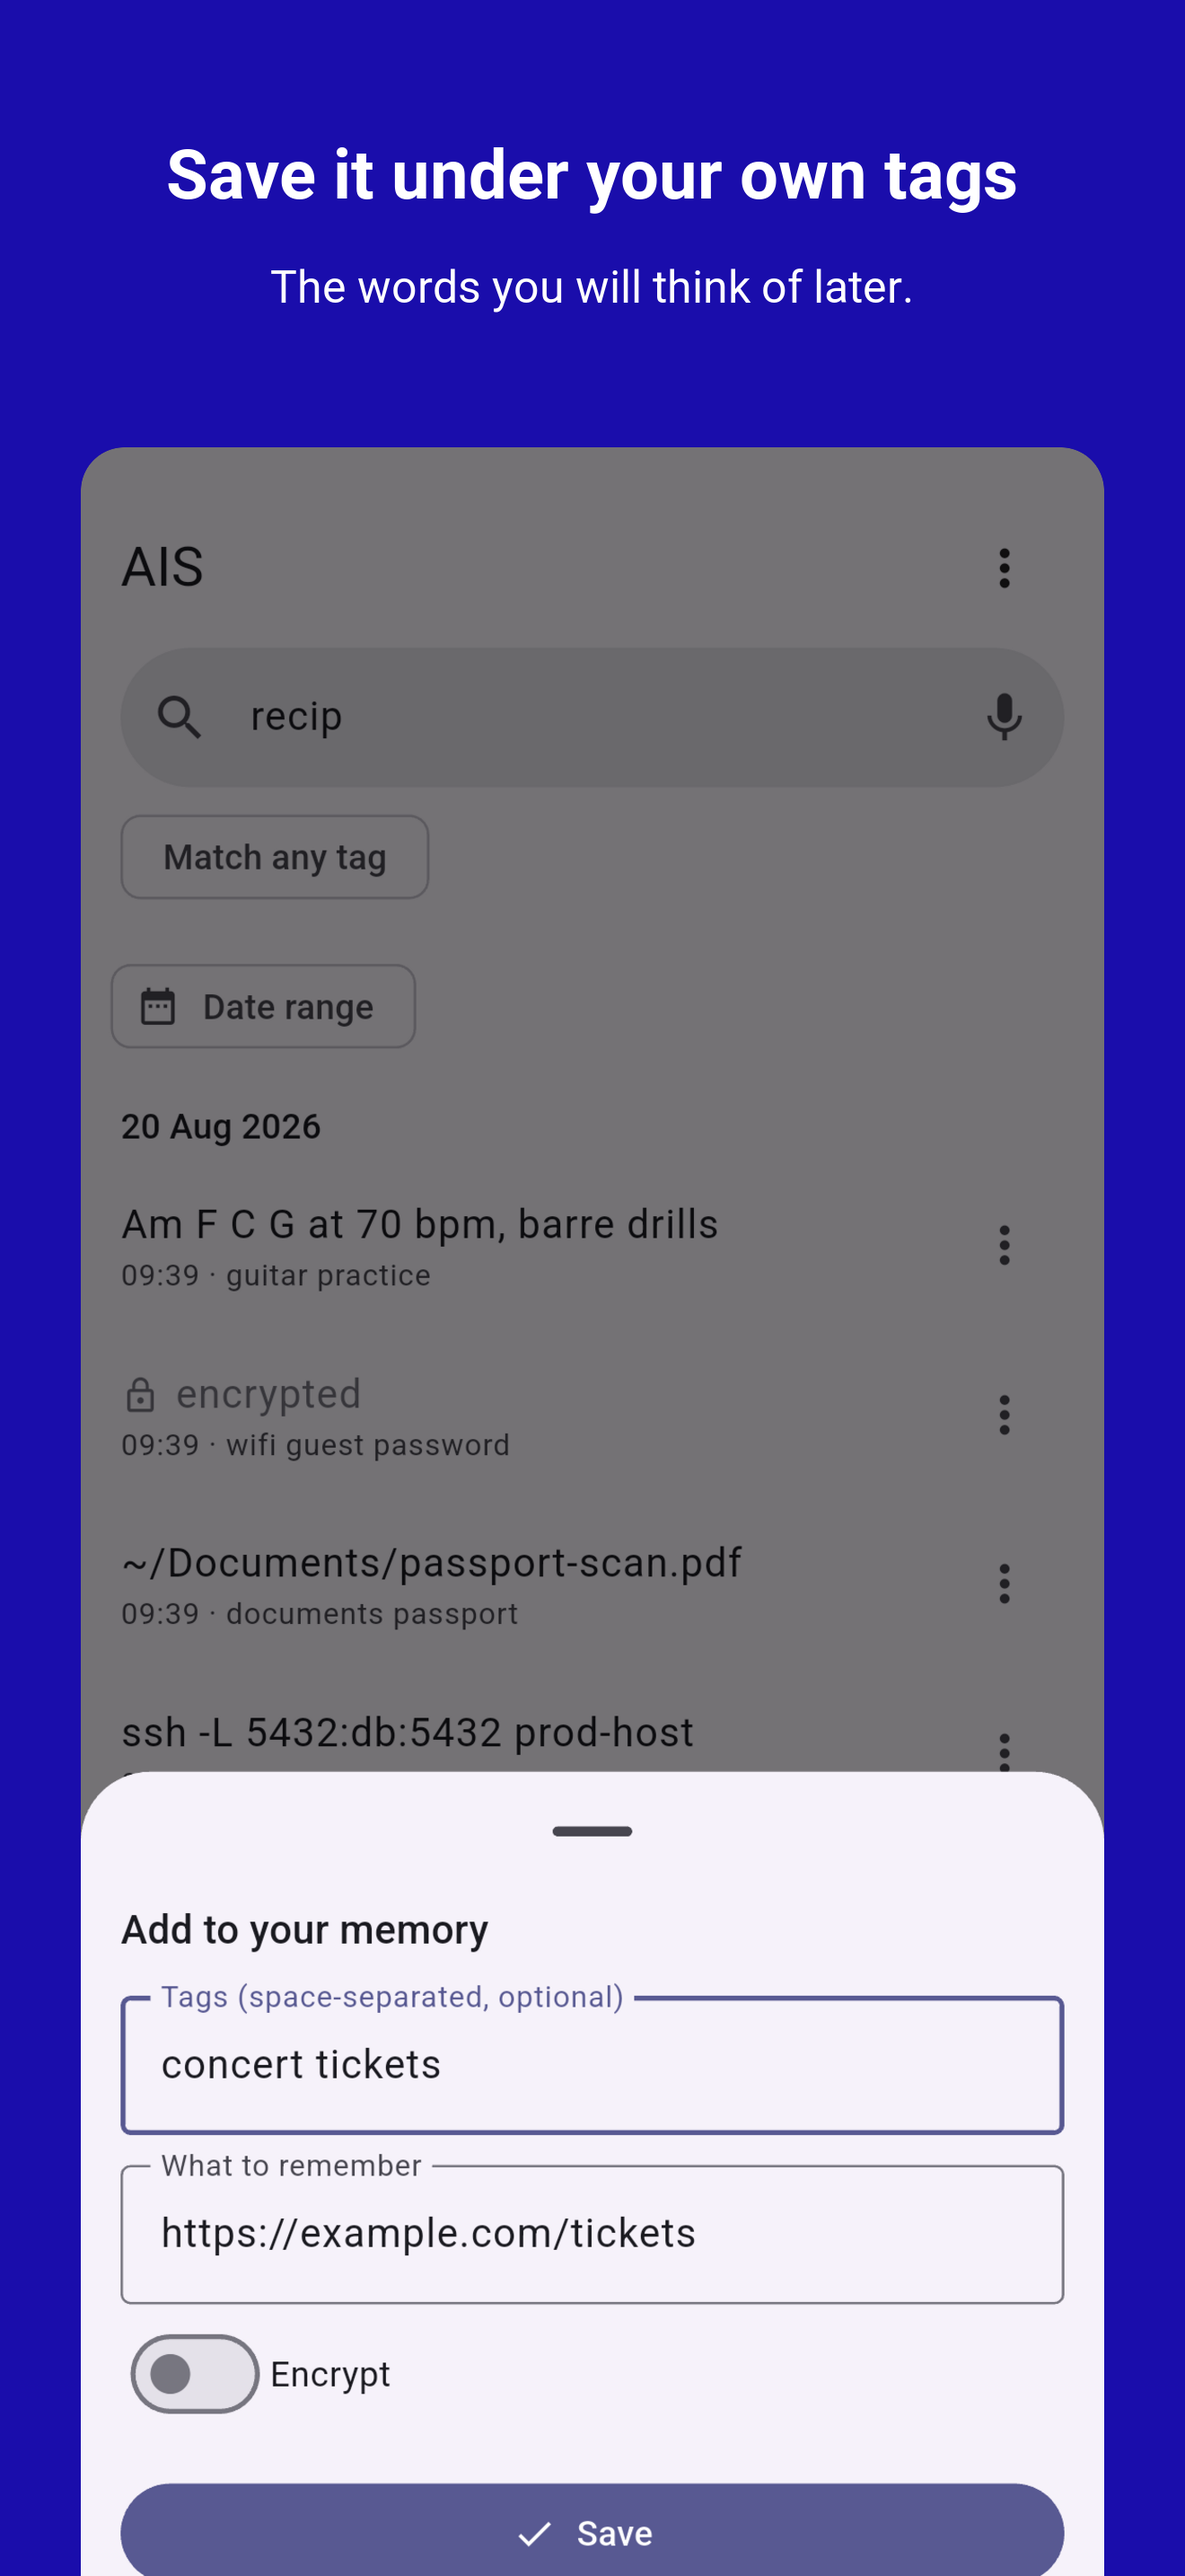
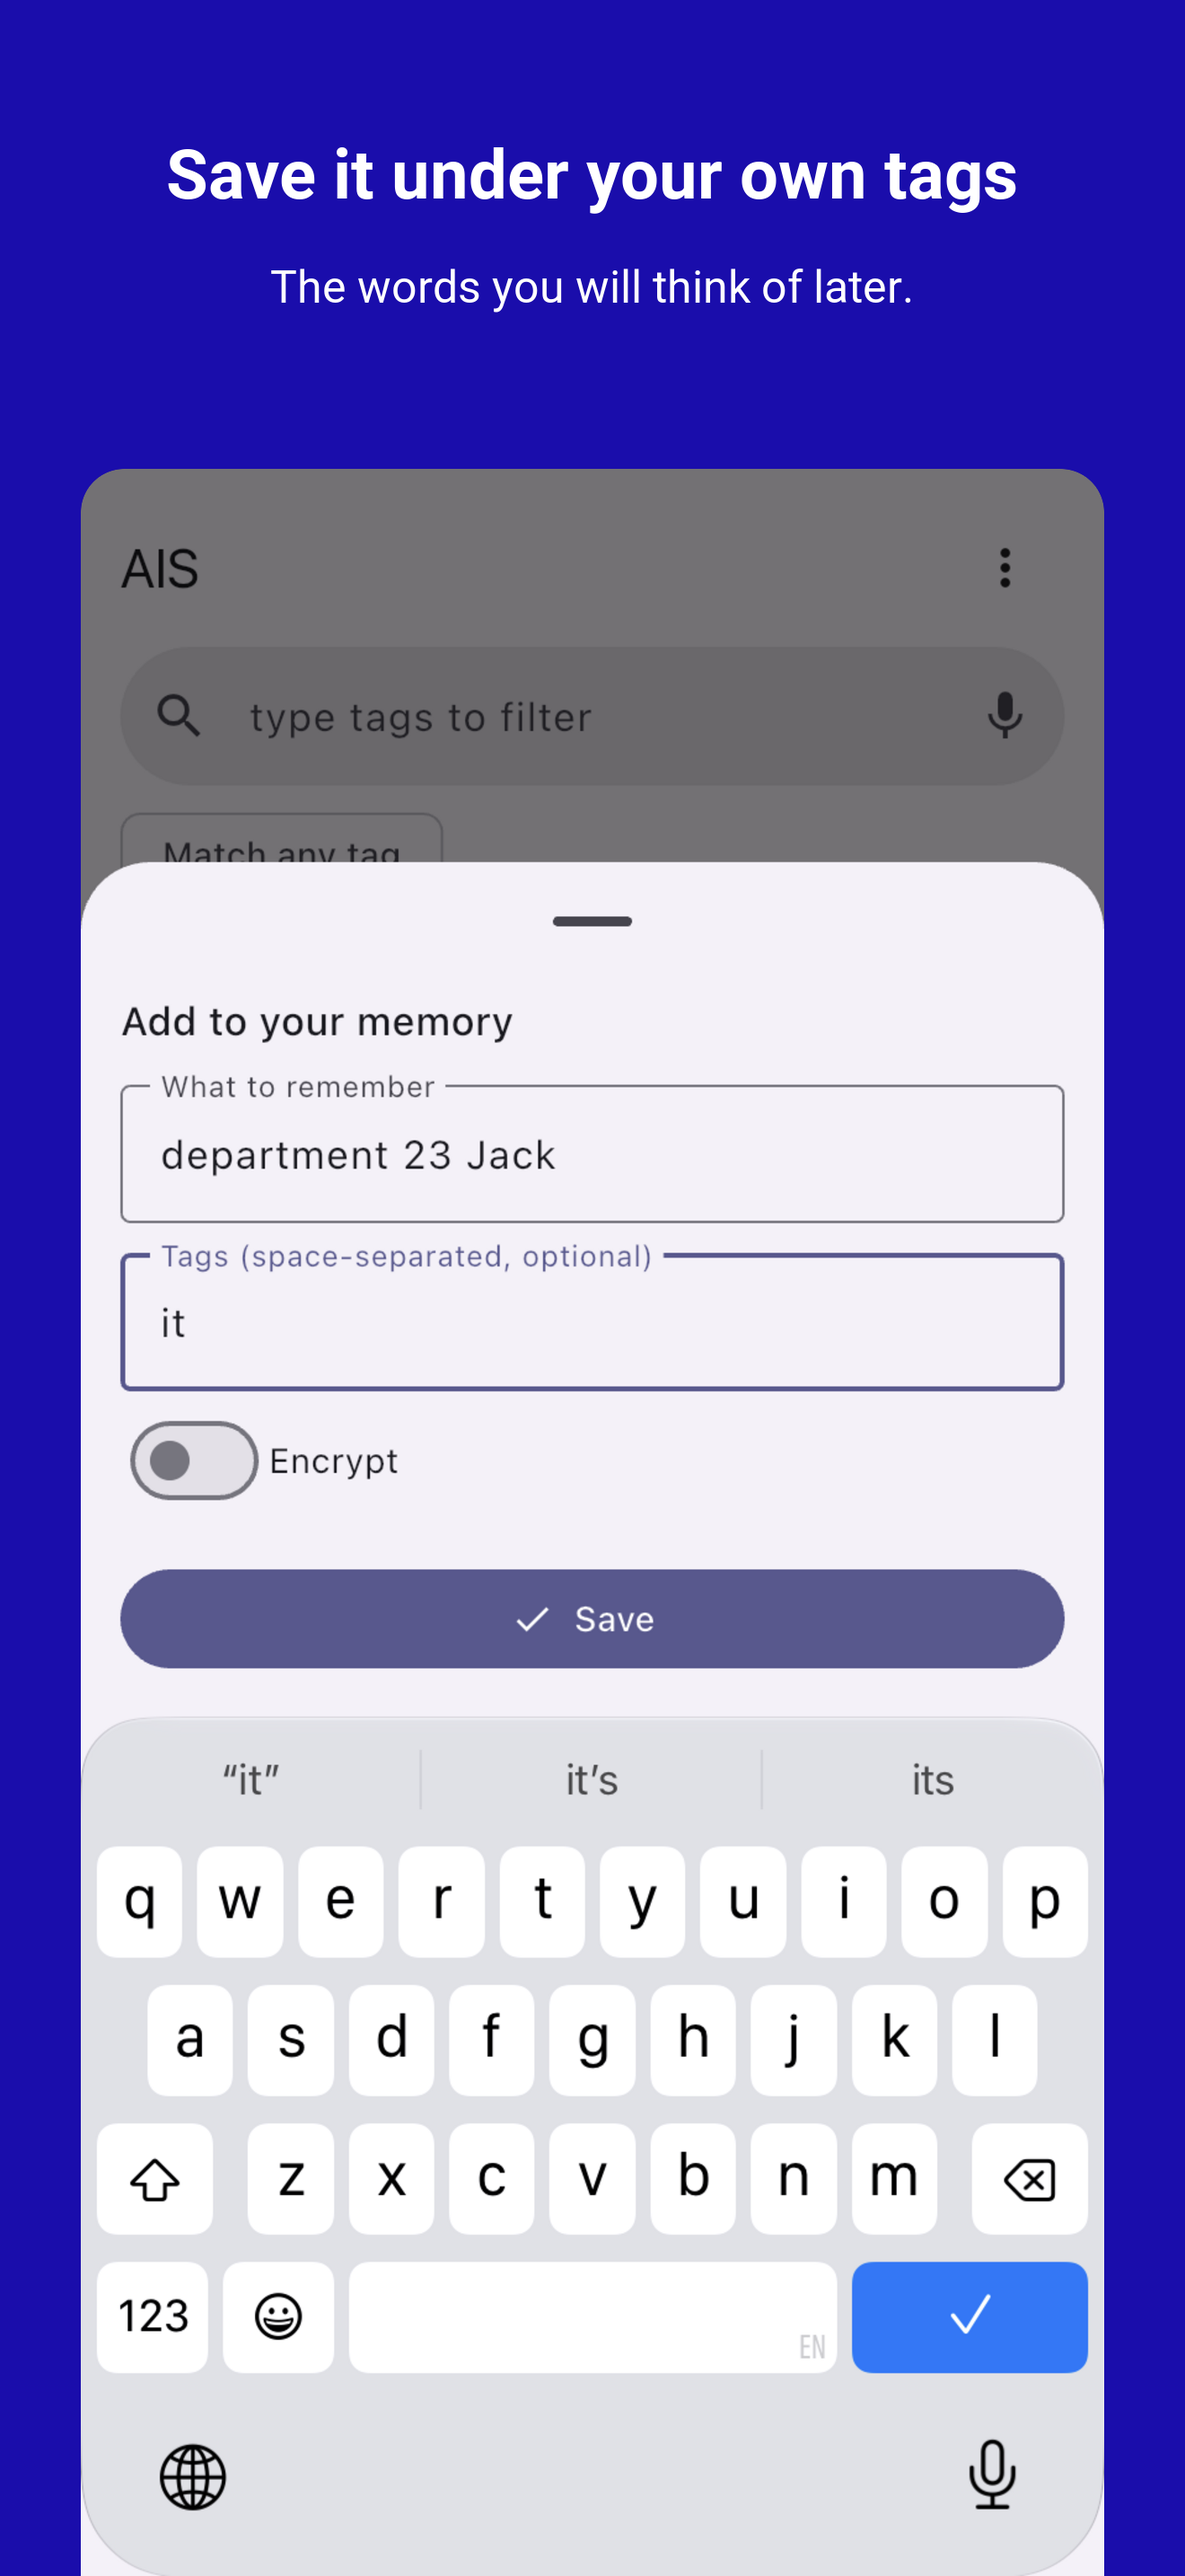
app: Save pinned above the keyboard; an eye on both passphrase fields; App Store frames from the iPhone captures

diff --git a/app/flutter/lib/main.dart b/app/flutter/lib/main.dart
@@ -3443,7 +3443,7 @@ class _AddSheetState extends State<AddSheet> {
   final _keysFocus = FocusNode();
   bool _encrypt = false; // off by default
   bool _saving = false;  // true while the off-isolate encrypt runs
-  bool _ppShow = false;  // reveal toggle for the sealing passphrase (both fields)
+  bool _ppShow = false;  // the sealing passphrase revealed, both fields at once
   String? _error;        // in-sheet feedback so a save never fails silently
 
   @override
@@ -3477,88 +3477,111 @@ class _AddSheetState extends State<AddSheet> {
     Navigator.of(context).pop();
   }
 
+  // One toggle on each passphrase field, sharing one state: tapping either eye
+  // reveals both, and a field with no eye reads as a field that cannot be shown.
+  Widget _eye() => IconButton(
+        icon: Icon(_ppShow ? Icons.visibility_off : Icons.visibility),
+        tooltip: _ppShow ? 'Hide' : 'Show',
+        onPressed: () => setState(() => _ppShow = !_ppShow),
+      );
+
   @override
   Widget build(BuildContext context) => Padding(
         padding: EdgeInsets.only(
             bottom: MediaQuery.of(context).viewInsets.bottom + 16,
             left: 16, right: 16, top: 4),
-        // Scrolls: with the keyboard up and Encrypt on, the fixed Column
-        // overflowed the sheet.
-        child: SingleChildScrollView(
-          child: Column(
+        child: Column(
           mainAxisSize: MainAxisSize.min,
           crossAxisAlignment: CrossAxisAlignment.stretch,
           children: [
             Text('Add to your memory',
                 style: Theme.of(context).textTheme.titleMedium),
             const SizedBox(height: 14),
-            // The thing being saved comes first, then how to find it again. The
-            // other order asked for the label before the thing it labels, which
-            // is not how anyone describes what they are doing.
-            TextField(
-              controller: _valCtrl,
-              autofocus: true,
-              minLines: 1,
-              maxLines: 3,
-              decoration: const InputDecoration(
-                labelText: 'What to remember',
-                hintText: 'a link, a note, a phone number…',
-                border: OutlineInputBorder(),
-              ),
-            ),
-            const SizedBox(height: 12),
-            TextField(
-              controller: _keysCtrl,
-              focusNode: _keysFocus,
-              decoration: const InputDecoration(
-                labelText: 'Tags (space-separated, optional)',
-                hintText: 'e.g. venice italy hotel',
-                border: OutlineInputBorder(),
-              ),
-            ),
-            TagSuggestRow(
-              controller: _keysCtrl,
-              focusNode: _keysFocus,
-              lookup: widget.suggest,
-            ),
-            const SizedBox(height: 4),
-            Row(children: [
-              Switch(
-                value: _encrypt,
-                onChanged: (b) => setState(() => _encrypt = b),
-              ),
-              const Text('Encrypt'),
-            ]),
-            if (_encrypt) ...[
-              TextField(
-                controller: _ppCtrl,
-                obscureText: !_ppShow,
-                decoration: InputDecoration(
-                  labelText: 'Passphrase',
-                  border: const OutlineInputBorder(),
-                  suffixIcon: IconButton(
-                    icon: Icon(_ppShow ? Icons.visibility_off : Icons.visibility),
-                    tooltip: _ppShow ? 'Hide' : 'Show',
-                    onPressed: () => setState(() => _ppShow = !_ppShow),
-                  ),
+            // The fields scroll; Save below them does not, so it stays above
+            // the keyboard however tall the note and the Encrypt fields get.
+            // With Save inside the scroll view a three-line note on a phone
+            // pushed it under the keyboard, out of sight until the user
+            // guessed to scroll.
+            Flexible(
+              child: SingleChildScrollView(
+                child: Column(
+                  mainAxisSize: MainAxisSize.min,
+                  crossAxisAlignment: CrossAxisAlignment.stretch,
+                  children: [
+                    // The thing being saved comes first, then how to find it
+                    // again. The other order asked for the label before the
+                    // thing it labels, which is not how anyone describes what
+                    // they are doing.
+                    TextField(
+                      controller: _valCtrl,
+                      autofocus: true,
+                      minLines: 1,
+                      maxLines: 3,
+                      decoration: const InputDecoration(
+                        labelText: 'What to remember',
+                        hintText: 'a link, a note, a phone number…',
+                        border: OutlineInputBorder(),
+                      ),
+                    ),
+                    const SizedBox(height: 12),
+                    TextField(
+                      controller: _keysCtrl,
+                      focusNode: _keysFocus,
+                      decoration: const InputDecoration(
+                        labelText: 'Tags (space-separated, optional)',
+                        hintText: 'e.g. venice italy hotel',
+                        border: OutlineInputBorder(),
+                      ),
+                    ),
+                    TagSuggestRow(
+                      controller: _keysCtrl,
+                      focusNode: _keysFocus,
+                      lookup: widget.suggest,
+                    ),
+                    const SizedBox(height: 4),
+                    Row(children: [
+                      Switch(
+                        value: _encrypt,
+                        onChanged: (b) => setState(() => _encrypt = b),
+                      ),
+                      const Text('Encrypt'),
+                    ]),
+                    if (_encrypt) ...[
+                      TextField(
+                        controller: _ppCtrl,
+                        obscureText: !_ppShow,
+                        decoration: InputDecoration(
+                          labelText: 'Passphrase',
+                          border: const OutlineInputBorder(),
+                          suffixIcon: _eye(),
+                        ),
+                      ),
+                      const SizedBox(height: 8),
+                      TextField(
+                        controller: _pp2Ctrl,
+                        obscureText: !_ppShow,
+                        decoration: InputDecoration(
+                          labelText: 'Repeat passphrase',
+                          border: const OutlineInputBorder(),
+                          suffixIcon: _eye(),
+                        ),
+                      ),
+                      Padding(
+                        padding: const EdgeInsets.only(top: 6, bottom: 4),
+                        child: Text('A lost passphrase cannot be recovered.',
+                            style: Theme.of(context)
+                                .textTheme
+                                .bodySmall
+                                ?.copyWith(
+                                    color: Theme.of(context)
+                                        .colorScheme
+                                        .onSurfaceVariant)),
+                      ),
+                    ],
+                  ],
                 ),
               ),
-              const SizedBox(height: 8),
-              TextField(
-                controller: _pp2Ctrl,
-                obscureText: !_ppShow,
-                decoration: const InputDecoration(
-                  labelText: 'Repeat passphrase',
-                  border: OutlineInputBorder(),
-                ),
-              ),
-              Padding(
-                padding: const EdgeInsets.only(top: 6, bottom: 4),
-                child: Text('A lost passphrase cannot be recovered.',
-                    style: Theme.of(context).textTheme.bodySmall?.copyWith(
-                        color: Theme.of(context).colorScheme.onSurfaceVariant)),
-              ),
-            ],
+            ),
             if (_error != null)
               Padding(
                 padding: const EdgeInsets.only(top: 2, bottom: 6),
@@ -3576,7 +3599,6 @@ class _AddSheetState extends State<AddSheet> {
               onPressed: _saving ? null : _save,
             ),
           ],
-        ),
         ),
       );
 }

diff --git a/app/flutter/test/add_sheet_test.dart b/app/flutter/test/add_sheet_test.dart
@@ -123,4 +123,49 @@ void main() {
     expect(saved.length, 1);
     expect(find.text('Add to your memory'), findsNothing);
   });
+
+  testWidgets('both passphrase fields carry the reveal toggle; either reveals both',
+      (tester) async {
+    await openSheet(tester);
+    await tester.tap(find.byType(Switch));
+    await tester.pump();
+    final first = find.widgetWithText(TextField, 'Passphrase');
+    final repeat = find.widgetWithText(TextField, 'Repeat passphrase');
+    final eyes = find.descendant(
+        of: find.byType(TextField), matching: find.byIcon(Icons.visibility));
+    expect(eyes, findsNWidgets(2));
+    expect(find.descendant(of: repeat, matching: eyes), findsOneWidget);
+    await tester.tap(find.descendant(of: repeat, matching: eyes));
+    await tester.pump();
+    expect(tester.widget<TextField>(first).obscureText, isFalse);
+    expect(tester.widget<TextField>(repeat).obscureText, isFalse);
+    expect(find.byIcon(Icons.visibility_off), findsNWidgets(2));
+  });
+
+  // A phone-sized view with the keyboard taking most of it: the fields no
+  // longer fit, so they scroll, and Save must still sit above the keyboard
+  // without scrolling. Before the pinned footer it was the last thing inside
+  // the scroll view, hidden until the user guessed to scroll.
+  testWidgets('Save stays above the keyboard however tall the fields grow',
+      (tester) async {
+    tester.view.physicalSize = const Size(800, 1000);
+    tester.view.devicePixelRatio = 1;
+    tester.view.viewInsets = const FakeViewPadding(bottom: 620);
+    addTearDown(tester.view.reset);
+    await openSheet(tester);
+    await tester.tap(find.byType(Switch));
+    await tester.pumpAndSettle();
+    final save = find.widgetWithText(FilledButton, 'Save');
+    expect(save, findsOneWidget);
+    expect(tester.getRect(save).bottom, lessThanOrEqualTo(1000 - 620));
+    // the fields above it are what scroll
+    final scroll = tester.state<ScrollableState>(find.byType(Scrollable).first);
+    expect(scroll.position.maxScrollExtent, greaterThan(0));
+    await fill(tester, 'What to remember', 'x');
+    await fill(tester, 'Passphrase', 'pw');
+    await fill(tester, 'Repeat passphrase', 'pw');
+    await tester.tap(save);
+    await tester.pumpAndSettle();
+    expect(saved.length, 1);
+  });
 }

diff --git a/doc/dev/IOS_TODO.md b/doc/dev/IOS_TODO.md
@@ -56,10 +56,11 @@ Steps 2 and 3 need the account holder's own sign-in (IOS_RELEASE.md step 1).
       uploads need 15.0 or later.
 - [x] Screenshots: `scripts/appstore-shots.sh` makes the four 6.9-inch
       frames (1320x2868) in `fastlane/metadata/ios/en-US/images/phoneScreenshots/`
-      from the Android captures with the status and gesture bars cropped off
-      (2026-10-08). Review may still read them as not-iOS; captures from the
-      TestFlight install on Marina's iPhone would replace them, same script.
-- [ ] 1.0: upload the four screenshots, attach build 526, Submit for Review.
+      from `screenshots/iphone_*.png`, Marina's captures on the 0.3.33 build
+      (2026-10-08): timeline, add, search, encrypt. The encrypt capture
+      predates the eye on the Repeat field; retake it on the next build.
+- [ ] 1.0: rename the version to the build's, upload the four screenshots,
+      attach the build, Submit for Review.
 - [x] Build 526 Ready to Submit in TestFlight (2026-10-08), auto-distributed
       to the `Family` group.
 - [x] Device family: iPhone only (`TARGETED_DEVICE_FAMILY = "1"`,
